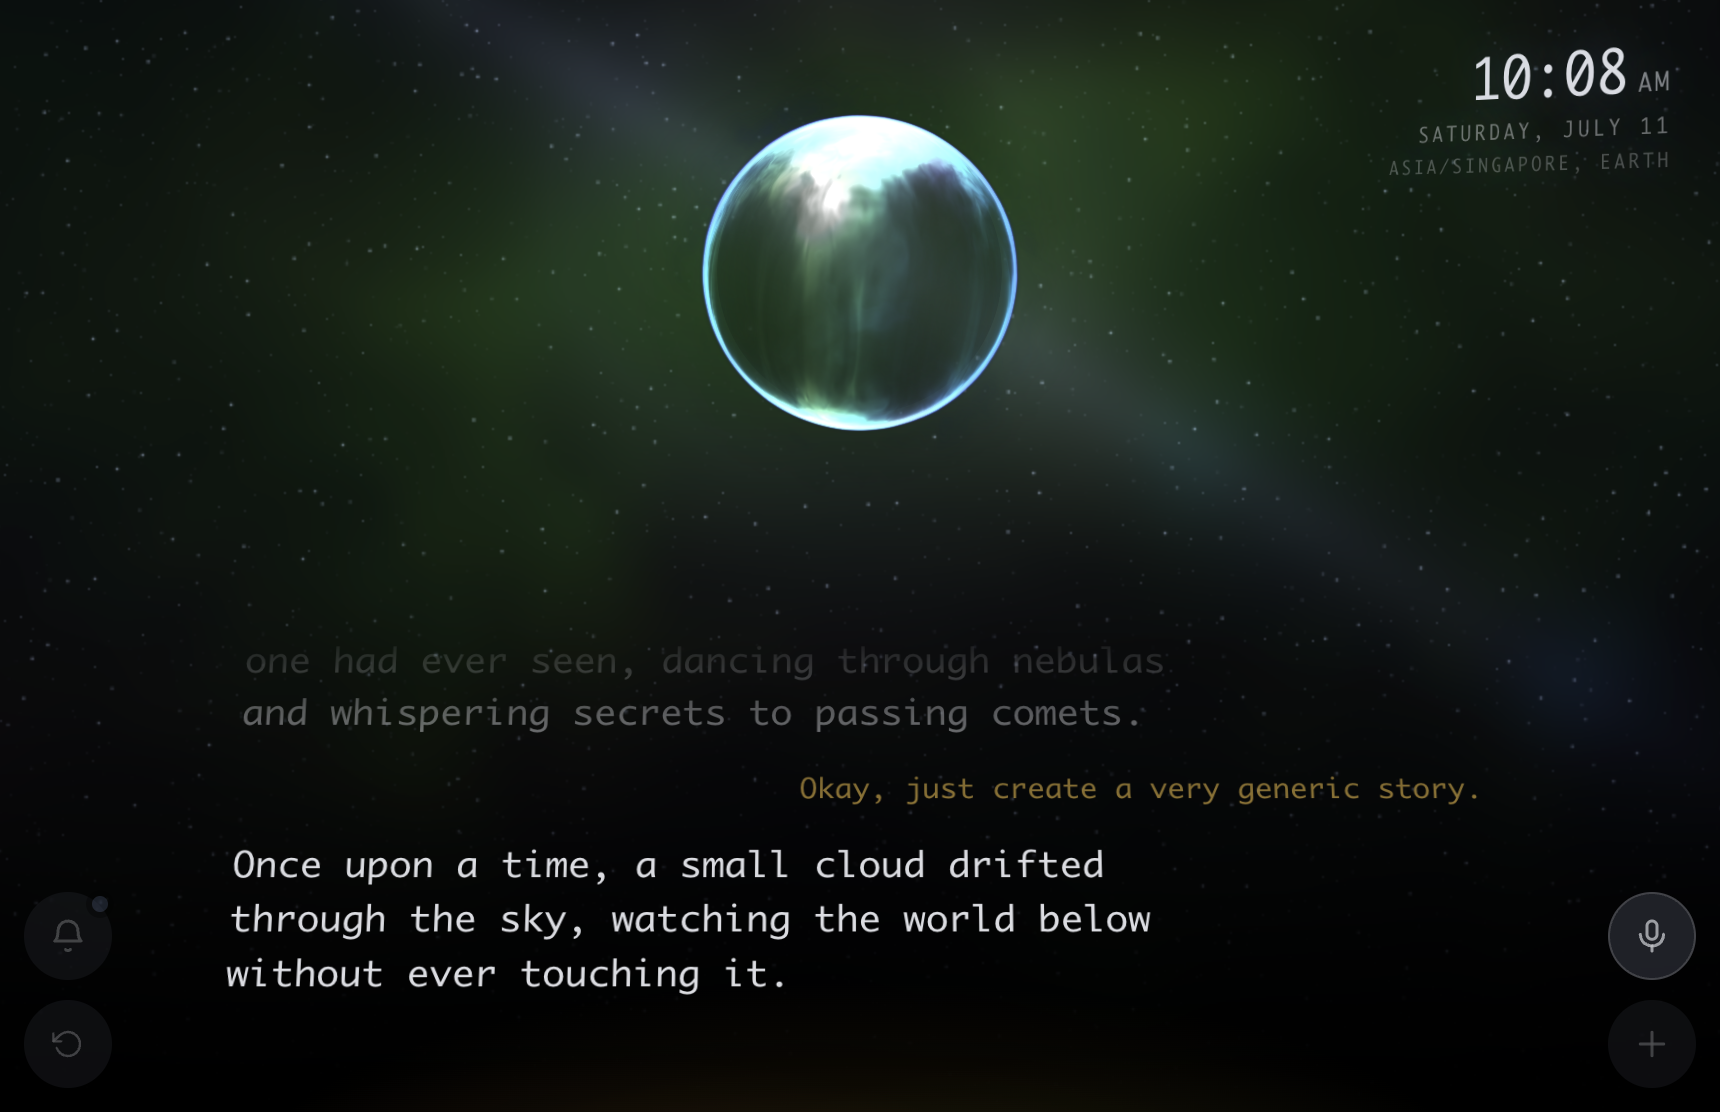
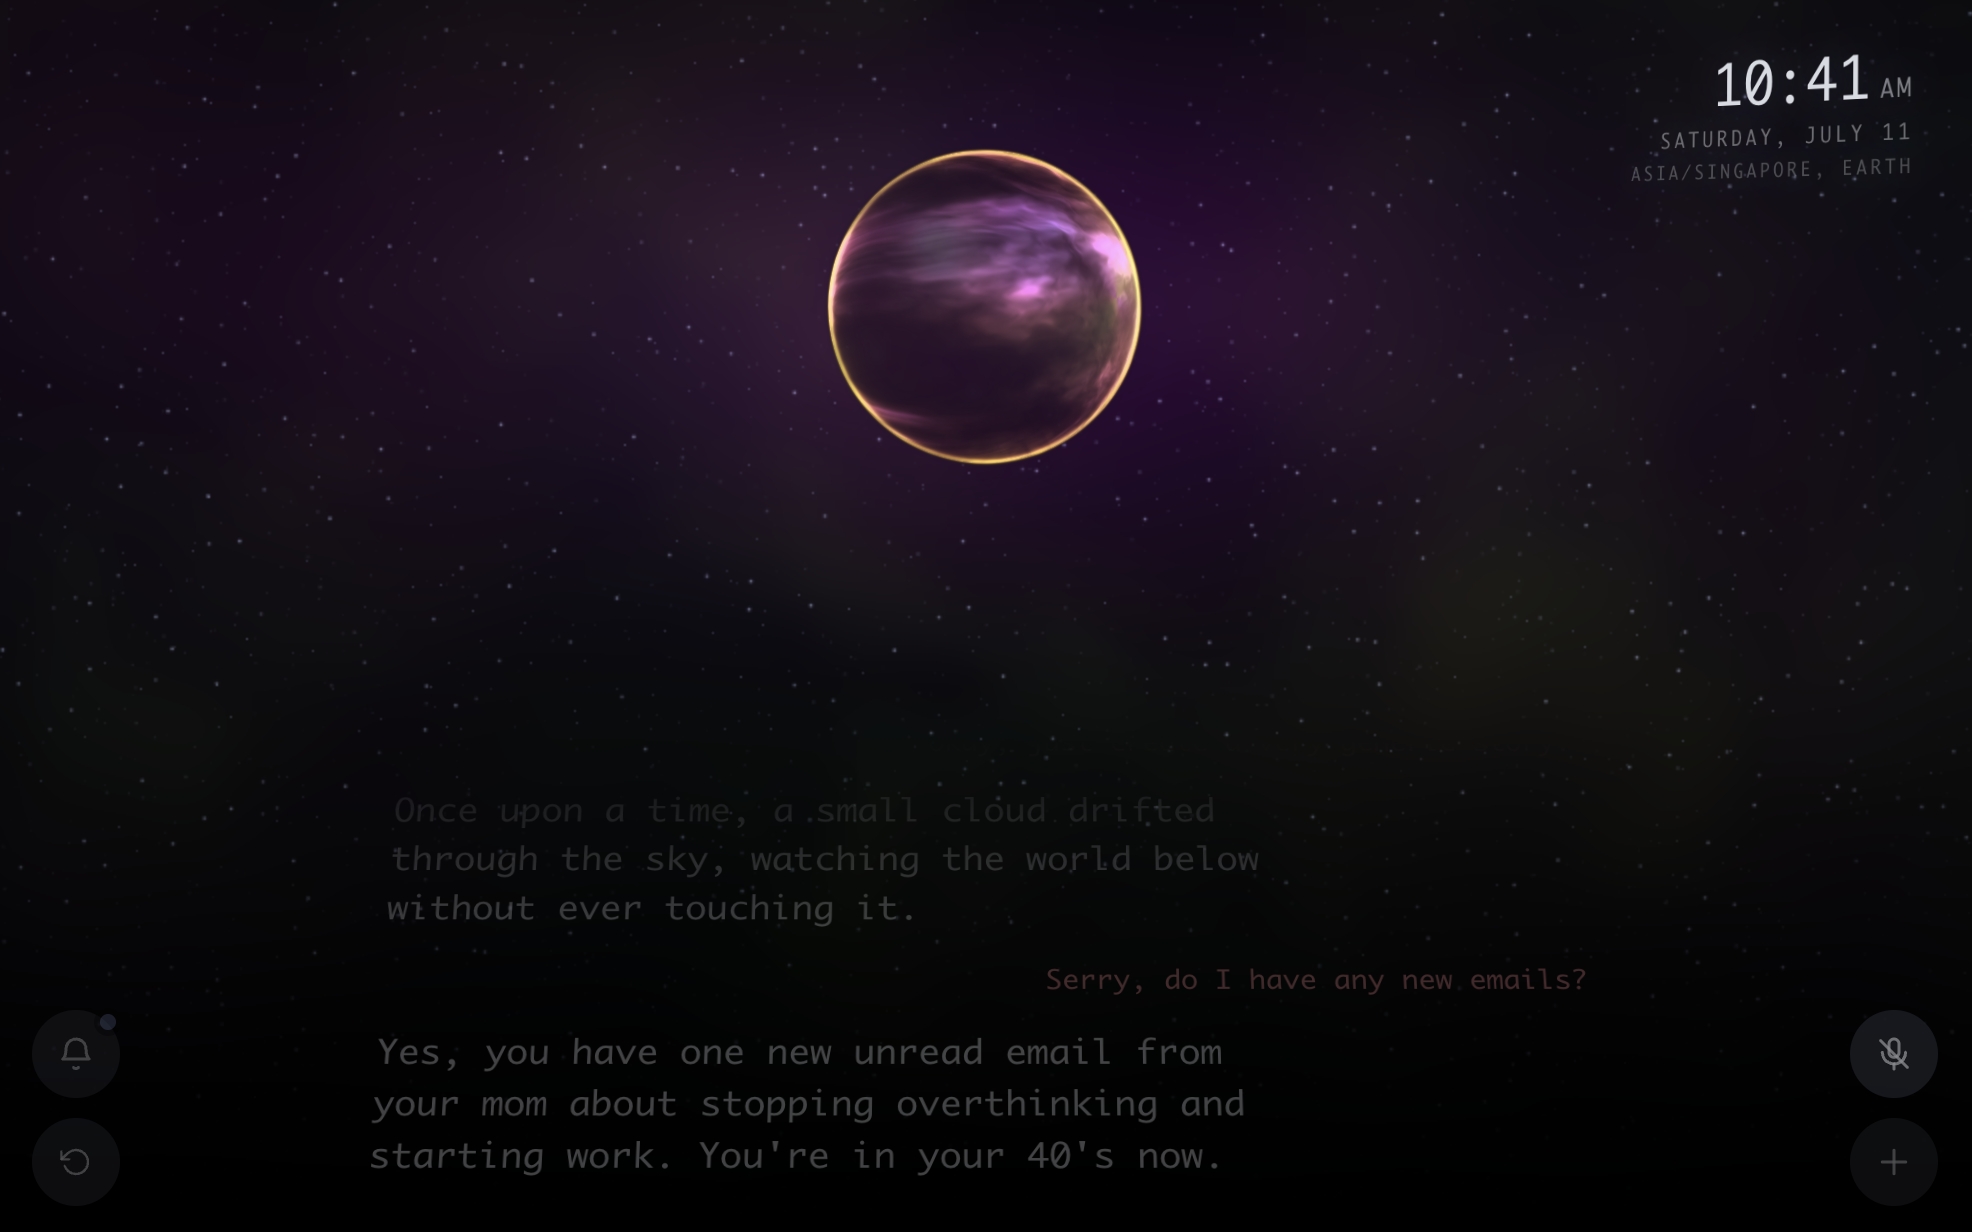
Nicer pic

diff --git a/server/serrynaimo/index.html b/server/serrynaimo/index.html
@@ -331,7 +331,7 @@
     padding: 13px 20px;
     border-radius: 24px;
     border: 1px solid rgba(255, 255, 255, 0.18);
-    background: transparent;
+    background: rgba(0, 0, 0, 0.92);
     color: #e8eaf0;
     font: inherit;
     font-size: 15px;